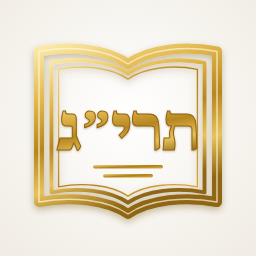
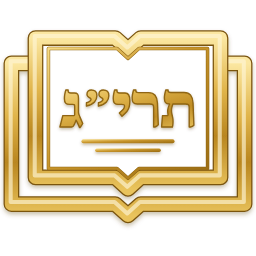
אייקונים בסגנון החנות: מסגרת ספר מוזהבת מובלטת, תמונת חנות 1200x900
- שלושת התוספים: מסגרת ספר פתוח ריבועית בקו כפול עבה, רקע לבן, סמל מוזהב במרכז —
  כמו שאר התוספים בחנות אוצריא
- tools/store-icon.png ביחס 4:3 (1200x900) כתמונות החנות; assets/icon.png חיתוך ריבועי
- ייצוא EPUB 1.5.2: כדי שהאייקון ותמונת החנות החדשים יגיעו לחנות

diff --git a/epub-export/js/app.js b/epub-export/js/app.js
@@ -5,7 +5,7 @@
 
   const C = window.EpubCore;
   const HAS_OTZ = typeof window.Otzaria !== 'undefined';
-  const VERSION = '1.5.1'; // יש לעדכן יחד עם manifest.json
+  const VERSION = '1.5.2'; // יש לעדכן יחד עם manifest.json
   const CHUNK = 5000; // תקרת library.getBookContent
   const LINKS_WINDOW = 200; // תקרת library.getLinks
   const LINK_CONTENT_BATCH = 25; // תקרת library.getLinkContent
